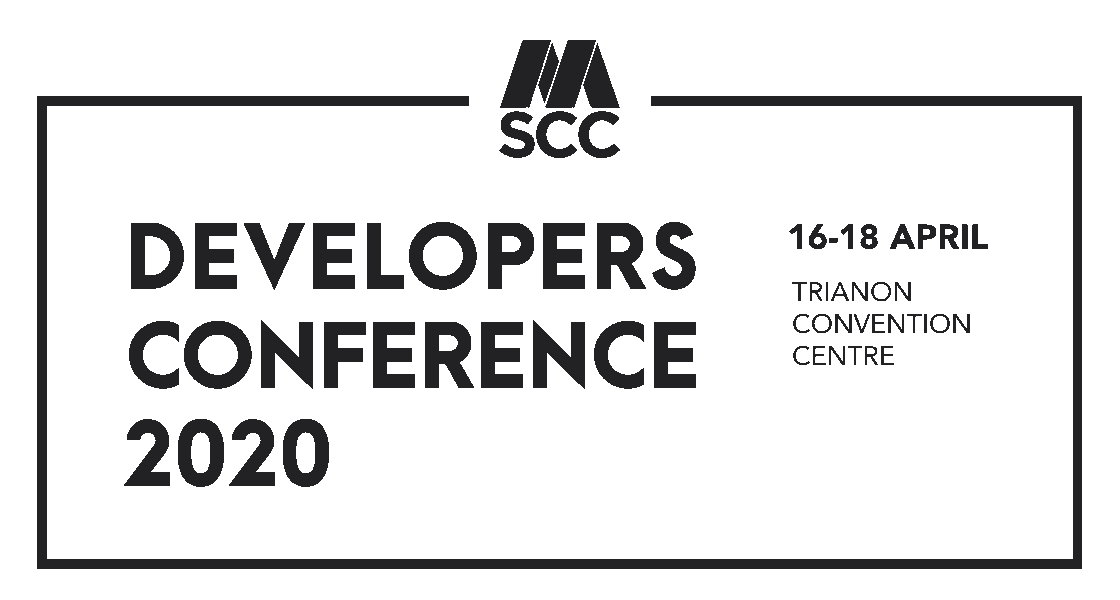
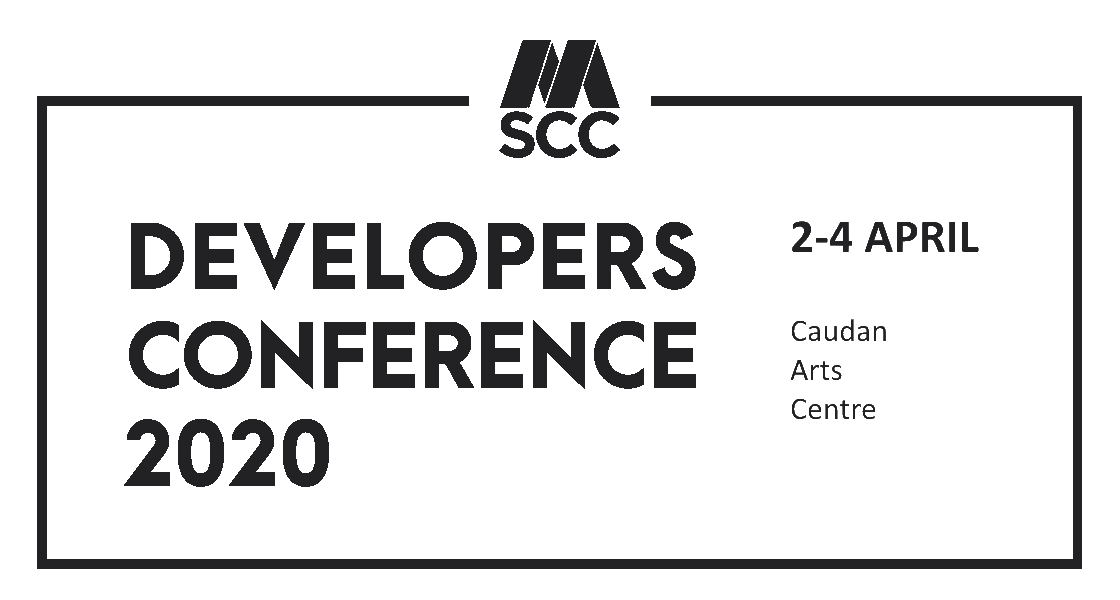
⚡ update dates and venue

Changed region(s): [[0.6875, 0.45, 0.875, 0.63], [0.6875, 0.36, 0.875, 0.42], [0.7188, 0.66, 0.7812, 0.69]]

diff --git a/web/app/src/components/HelloWorld.vue b/web/app/src/components/HelloWorld.vue
@@ -1,7 +1,7 @@
 <template>
   <div class="hello">
     <div class="announcement">
-      <img src="@/assets/not-text.png" alt="Developers Conference 2020 - Mauritius - 16.-18. April 2020">
+      <img src="@/assets/not-text.png" alt="Developers Conference 2020 - Mauritius - 2.-4. April 2020">
     </div>
     <div class="btnCont">
       <a href="https://github.com/mscraftsman/devcon2020/raw/master/assets/DevCon2020_PartnershipProposal.pdf"
